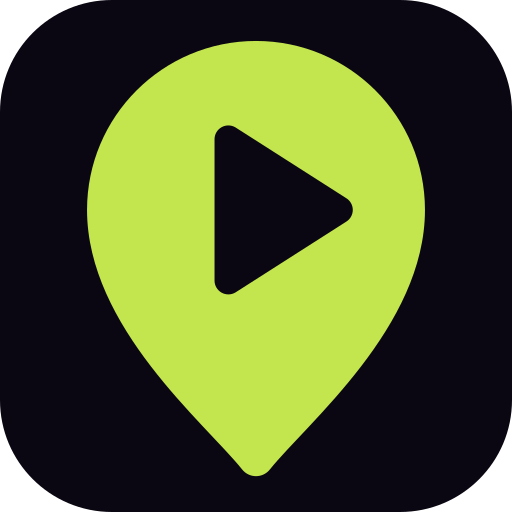
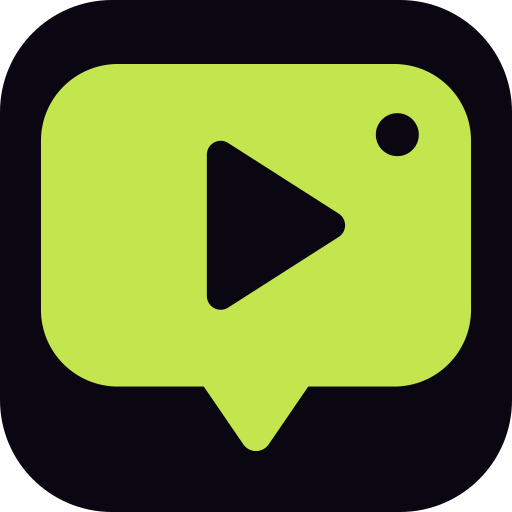
feat(anime): new WhereAnime mark, a screen with a pin point
The pin's round head blurred at favicon size and read as a map app. The
new mark is a rounded screen with a play button, whose bottom edge drops
into a pin point, so it still says where to watch. The family keeps the
pin as default; a site picks the screen with familyMark('play', 'screen').
Logo, favicons, app icons and the share image are redrawn.

Changed region(s): [[0.0625, 0.125, 0.9375, 0.9375], [0.375, 0.2188, 0.6875, 0.625], [0.3438, 0.0625, 0.6562, 0.125]]

diff --git a/packages/core/tests/where-hubs.test.js b/packages/core/tests/where-hubs.test.js
@@ -233,3 +233,14 @@ test('family mark: one pin, a symbol cut out per site, a tile for the icons', ()
   assert.match(tile, /fill="#000000"/)
   assert.match(tile, /color="#ffffff"/)
 })
+
+test('family mark: the screen shape moves every part of a symbol into the screen', async () => {
+  const { SCREEN_PATH, shapeOf } = await import('../src/lib/brand.mjs')
+  const screen = familyMark('lines', 'screen')
+  assert.ok(screen.includes(SCREEN_PATH))
+  assert.equal(shapeOf(screen), 'screen')
+  assert.equal(shapeOf(familyMark('lines')), 'pin')
+  // every bar of the text lines moves, not only the first
+  assert.match(screen, /M9\.5 10h12v2\.2H9\.5ZM9\.5 13\.4h12v2\.2H9\.5ZM9\.5 16\.8h7\.5V19H9\.5Z/)
+  assert.throws(() => familyMark('play', 'star'), /no shape/)
+})
